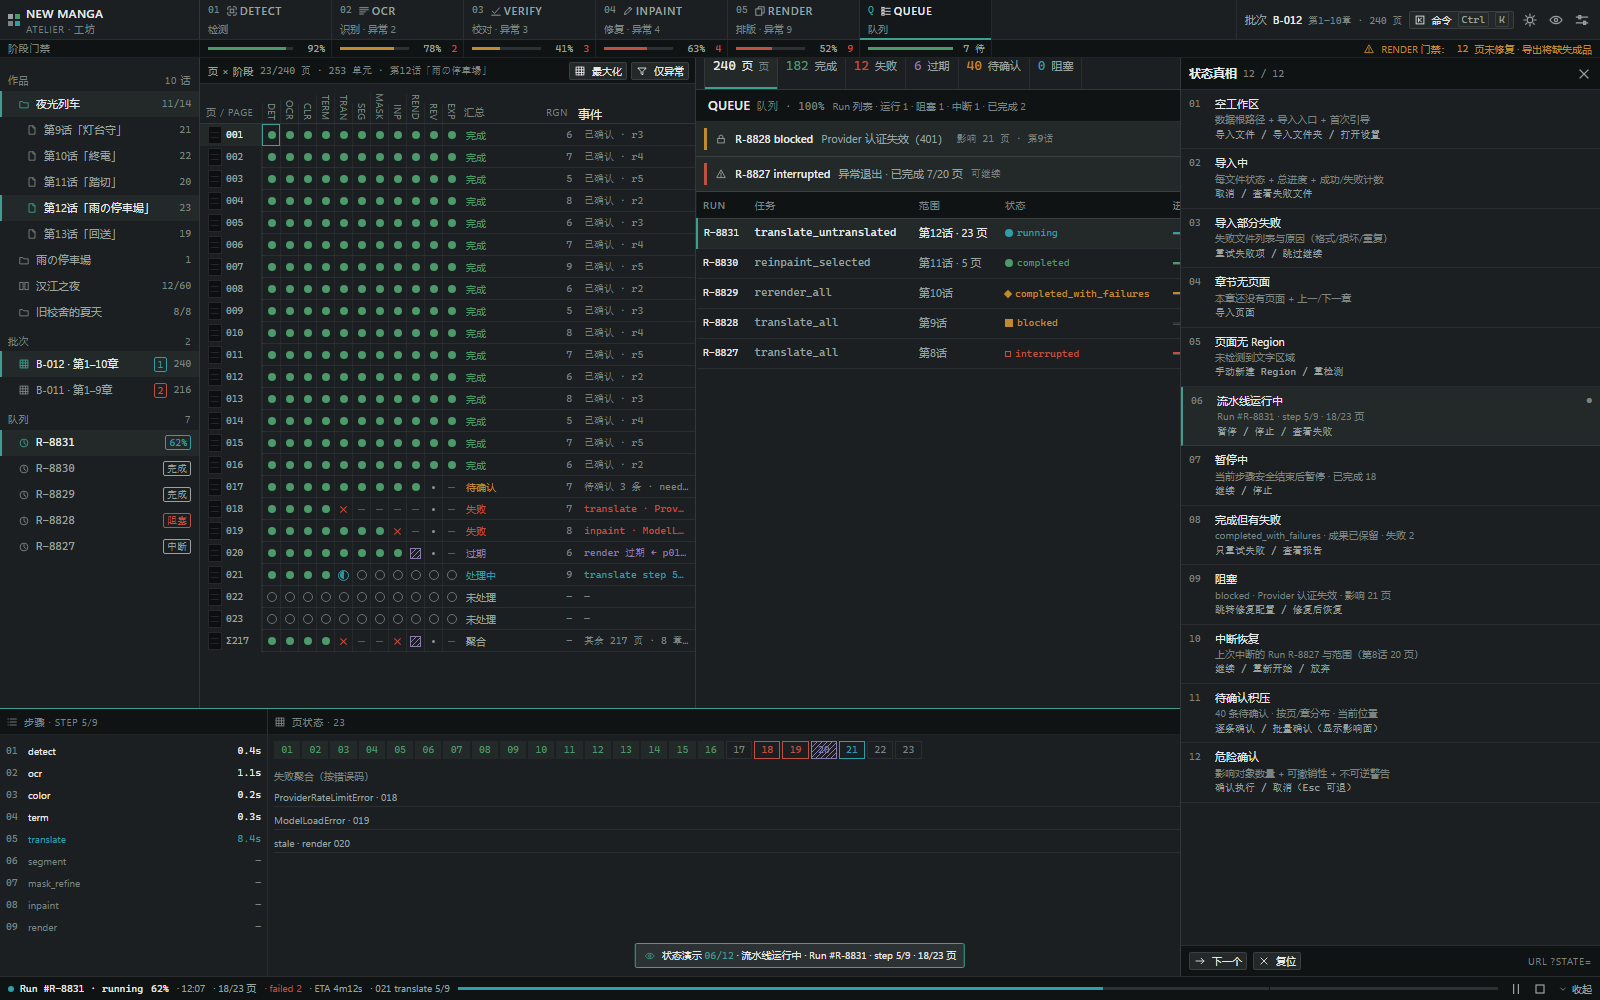
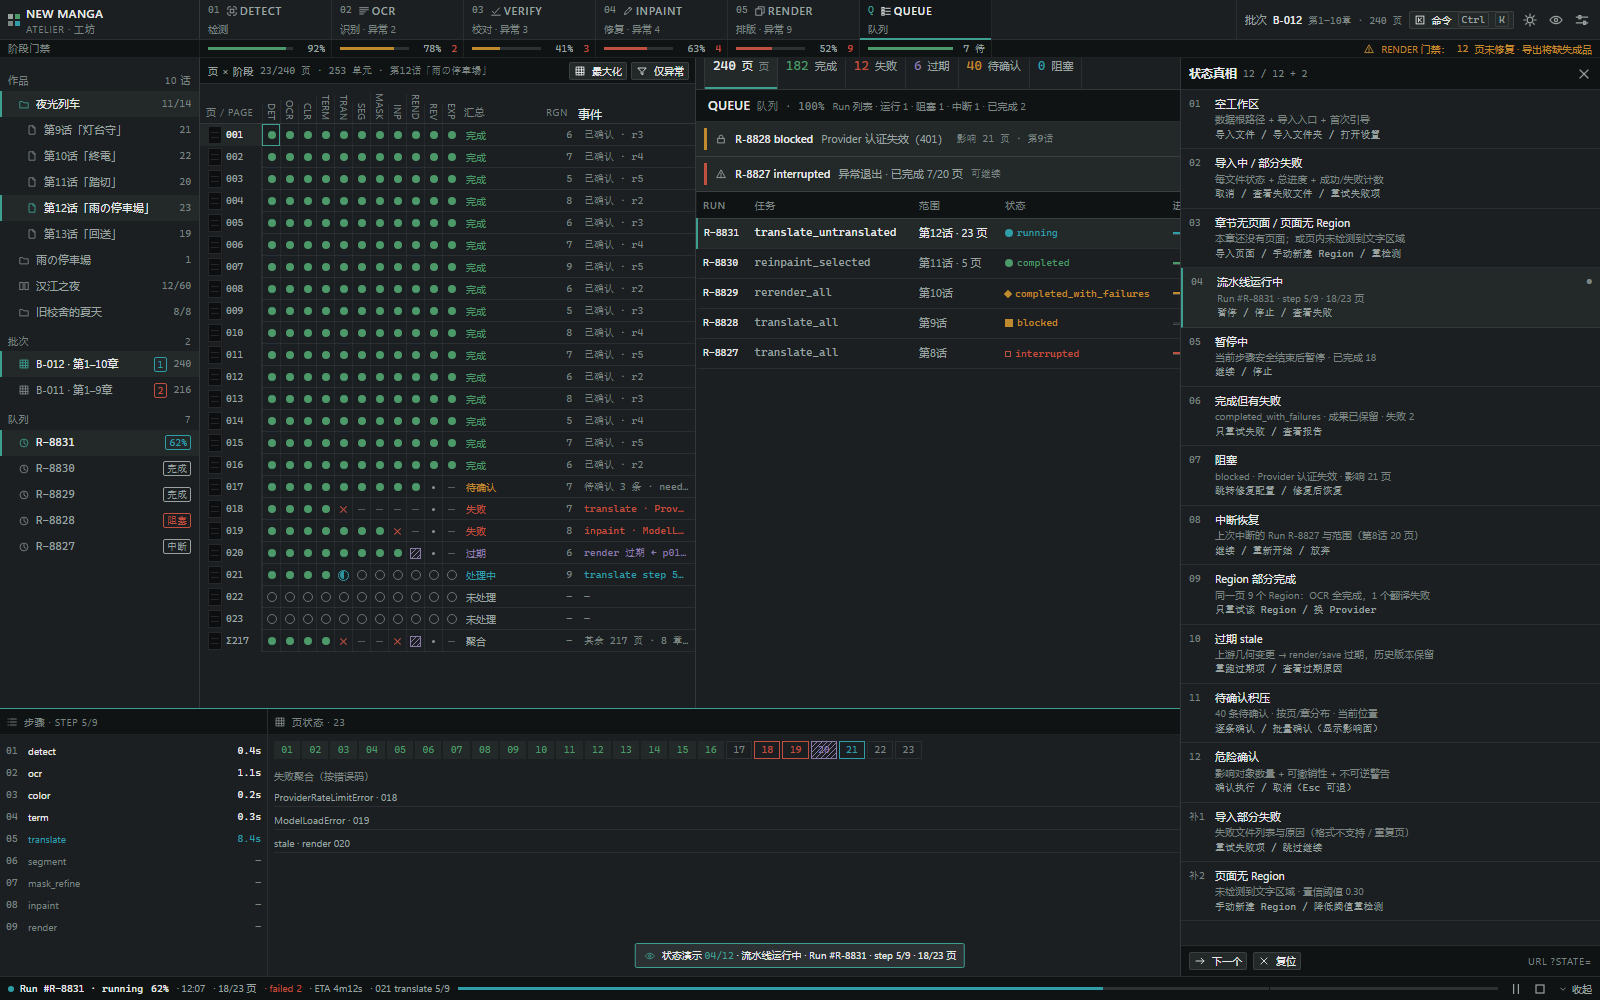
fix(design): unify 12-state-truth wording across docs; refresh C comparison shots
- 13_STATE_MODELS §3 now 1:1 with 10_UX_FOUNDATION §9 (merge import/chapter variants,
  add partial-region and stale), removing the root cause of the panel mismatch
- C keeps 12 canonical items + 2 optional variants (sup) for finer demo
- regenerate cmp-C-detect / cmp-C-verify after C's layout fixes

Changed region(s): [[0.75, 0.186, 0.9062, 0.682], [0.75, 0.806, 0.875, 0.93], [0.7812, 0.155, 0.8125, 0.186]]

diff --git a/doc/design/redesign-v1/20-directions/C-atelier/data.js b/doc/design/redesign-v1/20-directions/C-atelier/data.js
@@ -259,7 +259,10 @@ NM.STATES = [
   { n: '09', key: 'partial', t: 'Region 部分完成', d: '同一页 9 个 Region：OCR 全完成，1 个翻译失败', act: '只重试该 Region / 换 Provider' },
   { n: '10', key: 'stale', t: '过期 stale', d: '上游几何变更 → render/save 过期，历史版本保留', act: '重跑过期项 / 查看过期原因' },
   { n: '11', key: 'review_backlog', t: '待确认积压', d: '40 条待确认 · 按页/章分布 · 当前位置', act: '逐条确认 / 批量确认（显示影响面）' },
-  { n: '12', key: 'danger', t: '危险确认', d: '影响对象数量 + 可撤销性 + 不可逆警告', act: '确认执行 / 取消（Esc 可退）' }
+  { n: '12', key: 'danger', t: '危险确认', d: '影响对象数量 + 可撤销性 + 不可逆警告', act: '确认执行 / 取消（Esc 可退）' },
+  /* 补充（13_STATE_MODELS §3 标准 12 状态中，被 #02/#03 合并的三项在此单列，保证规范可逐项演示） */
+  { n: '补1', key: 'import_part_fail', sup: true, t: '导入部分失败', d: '失败文件列表与原因（格式不支持 / 重复页）', act: '重试失败项 / 跳过继续' },
+  { n: '补2', key: 'page_no_region', sup: true, t: '页面无 Region', d: '未检测到文字区域 · 置信阈值 0.30', act: '手动新建 Region / 降低阈值重检测' }
 ];
 
 /* ---------- 14. 工具 ---------- */

diff --git a/doc/design/redesign-v1/20-directions/C-atelier/views.js b/doc/design/redesign-v1/20-directions/C-atelier/views.js
@@ -707,7 +707,9 @@
 
   /* ---------- 11. 状态演示面板 ---------- */
   V.states = function (ui) {
-    var head = '<div class="st-head"><span class="t">状态真相</span><span class="mono">12 / 12</span>' +
+    var head = '<div class="st-head"><span class="t">状态真相</span>' +
+      '<span class="mono">' + NM.STATES.filter(function (s) { return !s.sup; }).length + ' / 12' +
+      (NM.STATES.some(function (s) { return s.sup; }) ? ' + ' + NM.STATES.filter(function (s) { return s.sup; }).length : '') + '</span>' +
       '<button class="iconbtn" data-action="states-close" style="margin-left:auto" title="关闭">' + ic('i-close') + '</button></div>';
     var body = '<div class="st-body">' + NM.STATES.map(function (s) {
       var on = ui.state === s.key;

diff --git a/doc/design/redesign-v1/20-directions/C-atelier/STATES.md b/doc/design/redesign-v1/20-directions/C-atelier/STATES.md
@@ -16,18 +16,25 @@
 
 ## 2. 十二个状态在本方向的落点
 
+> 面板结构：**12 个主状态（编号 01–12）+ 2 个补充状态（补1/补2）**，头部计数显示 `12 / 12 + 2`。
+> 合并说明：规范 §3 的「导入部分失败 / 章节无页面 / 页面无 Region」在面板里被折进 02、03 两条（导入与章节两条主线各带一次失败处置），
+> 为避免规范项失去独立演示入口，另以「补1 导入部分失败」「补2 页面无 Region」单列，键名仍可 `?state=import_part_fail` / `?state=page_no_region` 直达。
+> 同时按矩阵语义补充了「09 Region 部分完成（同页状态不一致）」与「10 过期 stale」两个高价值真相——它们是本方向矩阵的核心论点。
+
 | # | key | 场景 | 本方向呈现 | 页面可见证据 |
 |---|---|---|---|---|
 | 01 | `empty` | 空工作区 | 对话框内 `.empty`：数据根 / 缓存路径 / 导入入口 + 引导，无插画 | `?state=empty` |
-| 02 | `importing` | 导入中 | `.import-list` 逐文件状态 + 总进度 18/2/3 + 取消 | `?state=importing` |
-| 03 | `import_part_fail` | 导入部分失败 | 失败文件 + 原因（格式不支持 / 重复页）+ 重试或跳过 | `?state=import_part_fail` |
-| 04 | `chapter_empty` | 章节无页面 | 「本章还没有页面」+ 上一/下一章 + 导入页面 | `?state=chapter_empty` |
-| 05 | `page_no_region` | 页面无 Region | 「022.jpg 未检测到文字区域」+ 置信阈值 + 降低阈值重检测 / 手绘 | `?state=page_no_region` |
-| 06 | `running` | 流水线运行中 | QUEUE 工作面 + Run 面板：step 5/9、当前页 021、18/2/1/2、暂停/停止 | `?state=running` |
-| 07 | `paused` | 暂停中 | 「将在当前步骤（translate）安全结束后生效」；状态带 paused，◐ 停止呼吸 | `?state=paused` |
-| 08 | `done_with_fail` | 完成但有失败 | `completed_with_failures` + 「成果已保留」+ 按错误码聚合 + 只重试失败 | `?state=done_with_fail` |
-| 09 | `blocked` | 阻塞 | 队列横幅 `R-8828 blocked · Provider 认证失效（401）· 影响 21 页` + 修复配置 / 修复后恢复 | `?state=blocked` |
-| 10 | `resume` | 中断恢复 | 三选一对话框：继续（剩余 13 页）/ 重新开始 / 放弃，含影响面 | `?state=resume` |
+| 02 | `importing` | 导入中 / 部分失败 | `.import-list` 逐文件状态 + 总进度 18/2/3 + 取消 / 重试失败项 | `?state=importing` |
+| 03 | `chapter_empty` | 章节无页面 / 页面无 Region | 「本章还没有页面」+ 上一/下一章；页内未检测到文字区域时给置信阈值 | `?state=chapter_empty` |
+| 补1 | `import_part_fail` | 导入部分失败（单列） | 失败文件 + 原因（格式不支持 / 重复页）+ 重试或跳过 | `?state=import_part_fail` |
+| 补2 | `page_no_region` | 页面无 Region（单列） | 「022.jpg 未检测到文字区域」+ 阈值 0.30 + 手绘入口 | `?state=page_no_region` |
+| 04 | `running` | 流水线运行中 | QUEUE 工作面 + Run 面板：step 5/9、当前页 021、18/2/1/2、暂停/停止 | `?state=running` |
+| 05 | `paused` | 暂停中 | 「将在当前步骤（translate）安全结束后生效」；状态带 paused，◐ 停止呼吸 | `?state=paused` |
+| 06 | `done_with_fail` | 完成但有失败 | `completed_with_failures` + 「成果已保留」+ 按错误码聚合 + 只重试失败 | `?state=done_with_fail` |
+| 07 | `blocked` | 阻塞 | 队列横幅 `R-8828 blocked · Provider 认证失效（401）· 影响 21 页` + 修复配置 / 修复后恢复 | `?state=blocked` |
+| 08 | `resume` | 中断恢复 | 三选一对话框：继续（剩余 13 页）/ 重新开始 / 放弃，含影响面 | `?state=resume` |
+| 09 | `partial` | Region 部分完成 | 同页 9 Region：OCR/色彩/术语全完成，1 个翻译失败 → 只重试该 Region | `?state=partial` |
+| 10 | `stale` | 过期 stale | 上游几何变更 → render 过期，历史版本保留；提供「重跑过期项 / 查看原因」 | `?state=stale` |
 | 11 | `review_backlog` | 待确认积压 | 自动切 VERIFY + 筛选 `review`；40 条待确认、当前审阅位置在 Region 检查清单 | `?state=review_backlog` |
 | 12 | `danger` | 危险确认 | 停止 Run 对话框：影响对象 5 页、不可撤销标记、`Esc` 可退 | `?state=danger` |
 

diff --git a/doc/design/redesign-v1/10-ux/13_STATE_MODELS.md b/doc/design/redesign-v1/10-ux/13_STATE_MODELS.md
@@ -46,17 +46,19 @@
 | # | 场景 | 必须出现的信息 | 必须可执行的动作 |
 |---|---|---|---|
 | 1 | 空工作区 | 数据根路径、导入入口、最近作品（若有）、首次使用引导入口 | 导入文件 / 导入文件夹 / 打开设置 |
-| 2 | 导入中 | 每个文件的状态、总进度、已成功/失败计数、可取消 | 取消 / 查看失败文件 |
-| 3 | 导入部分失败 | 失败文件列表与原因（格式/损坏/重复） | 重试失败项 / 跳过继续 |
-| 4 | 章节无页面 | 明确"本章还没有页面" + 上一/下一章 | 导入页面 |
-| 5 | 页面无 Region | 明确"未检测到文字区域" | 手动新建 Region / 重检测 |
-| 6 | 流水线运行中 | 当前 Run、当前 Step、当前页、总进度、完成/失败/等待计数 | 暂停 / 停止 / 查看失败 |
-| 7 | 暂停中 | "当前步骤安全结束后暂停"的状态说明、已完成计数 | 继续 / 停止 |
-| 8 | 完成但有失败 | `completed_with_failures` 明确文案、"成果已保留"、失败聚合 | 只重试失败 / 查看报告 |
-| 9 | 阻塞 | `blocked` + 阻塞原因（如 Provider 未配置/认证失败）+ 受影响范围 | 跳转修复配置 / 修复后恢复 |
-| 10 | 中断恢复 | 上次中断的 Run 与范围、三选一 | 继续 / 重新开始 / 放弃 |
+| 2 | 导入中 / 导入失败（部分成功） | 每个文件的状态、总进度、已成功/失败计数、可取消；失败文件列表与原因（格式/损坏/重复） | 取消 / 重试失败项 / 跳过继续 |
+| 3 | 章节无页面 / 页面无 Region | 明确"本章还没有页面" + 上一/下一章；或"未检测到文字区域" | 导入页面 / 手动新建 Region / 重检测 |
+| 4 | 流水线运行中 | 当前 Run、当前 Step、当前页、总进度、完成/失败/等待计数 | 暂停 / 停止 / 查看失败 |
+| 5 | 暂停中 | "当前步骤安全结束后暂停"的状态说明、已完成计数 | 继续 / 停止 |
+| 6 | 完成但有失败 | `completed_with_failures` 明确文案、"成果已保留"、失败聚合 | 只重试失败 / 查看报告 |
+| 7 | 阻塞 | `blocked` + 阻塞原因（如 Provider 未配置/认证失败）+ 受影响范围 | 跳转修复配置 / 修复后恢复 |
+| 8 | 中断恢复 | 上次中断的 Run 与范围、三选一 | 继续 / 重新开始 / 放弃 |
+| 9 | Region 部分完成 | 同页部分 Region 完成、部分失败（页级综合状态为"部分完成"）| 只重试失败 Region / 换 Provider |
+| 10 | 过期 `stale` | 过期原因（哪个上游变了）、历史版本仍保留 | 重跑过期项 / 查看过期原因 |
 | 11 | 待确认积压 | 待确认条数、按页/按章分布、当前审阅位置 | 逐条确认 / 批量确认（显示影响面） |
 | 12 | 危险确认 | 影响对象数量、是否可撤销、不可逆警告 | 确认执行 / 取消（Esc 可退） |
+
+> **口径统一**：本表与 `10_UX_FOUNDATION.md §9` 的 12 项**一一对应**（第 2、3 项各含一个变体，不再拆成独立条目）。任何方向的状态演示面板必须覆盖这 12 项，不得以拆分变体挤占其它项。
 
 ---
 
